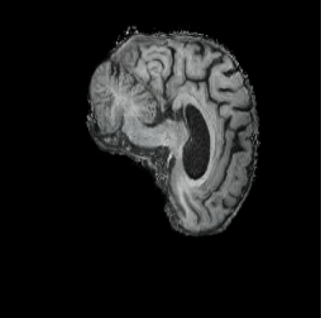
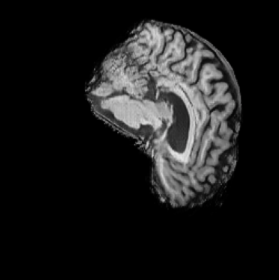
Implemented results and interpolation within and cross classes

Changed region(s): [[0.2581, 0.0571, 0.8889, 0.7429]]

diff --git a/recognition/ADNI_StyleGAN_Diffusion_48837824/predict.py b/recognition/ADNI_StyleGAN_Diffusion_48837824/predict.py
@@ -194,6 +194,59 @@ def generate_latent_walk(gen, mapping, class_idx, steps=10, output_dir='generate
         print(f"✓ Saved latent walk: {walk_path}")
 
 
+def generate_cross_class_interpolation(gen, mapping, steps=10, output_dir='generated_samples', device=DEVICE):
+    """
+    Generate interpolation between AD and NC classes.
+    Shows the smooth transition from Alzheimer's Disease to Normal Control.
+    
+    Args:
+        gen: Generator model
+        mapping: Mapping network
+        steps: Number of interpolation steps (default: 10)
+        output_dir: Directory to save images
+        device: Device
+    """
+    
+    os.makedirs(output_dir, exist_ok=True)
+    
+    print(f"\nGenerating cross-class interpolation (AD → NC)...")
+    
+    with torch.no_grad():
+        # Use same random z for both classes to isolate class effect
+        z = torch.randn(1, Z_DIM, device=device)
+        noise = get_noise(1, device)
+        
+        # Generate W vectors for both classes with same z
+        ad_label = torch.tensor([0], dtype=torch.long, device=device)
+        nc_label = torch.tensor([1], dtype=torch.long, device=device)
+        
+        w_ad = mapping(z, ad_label)
+        w_nc = mapping(z, nc_label)
+        
+        # Expand w for all layers
+        num_blocks = LOG_RESOLUTION - 2
+        num_layers = 1 + 2 * num_blocks
+        w_ad = w_ad.unsqueeze(1).expand(-1, num_layers, -1)
+        w_nc = w_nc.unsqueeze(1).expand(-1, num_layers, -1)
+        
+        imgs = []
+        for alpha in torch.linspace(0, 1, steps):
+            # Interpolate in W space
+            w_interp = (1 - alpha) * w_ad + alpha * w_nc
+            
+            img = gen(w_interp, noise)
+            img = img * 0.5 + 0.5
+            img = torch.clamp(img, 0, 1)
+            imgs.append(img)
+        
+        imgs = torch.cat(imgs, dim=0)
+        
+        interp_path = f"{output_dir}/AD_to_NC_interpolation.png"
+        save_image(imgs, interp_path, nrow=steps, padding=2, normalize=False)
+        print(f"✓ Saved cross-class interpolation: {interp_path}")
+        print(f"  Shows smooth transition from AD (left) to NC (right)")
+
+
 def extract_w_vectors(mapping, num_samples, labels, device=DEVICE):
     """
     Generate W vectors (style space vectors) from the mapping network.
@@ -437,6 +490,7 @@ if __name__ == "__main__":
     parser.add_argument('--output_dir', type=str, default='generated_samples', help='Output directory')
     parser.add_argument('--mixed', action='store_true', help='Generate mixed AD/NC comparison')
     parser.add_argument('--walk', action='store_true', help='Generate latent space walk')
+    parser.add_argument('--cross_class', action='store_true', help='Generate interpolation between AD and NC classes')
     parser.add_argument('--embeddings', action='store_true', help='Generate t-SNE embedding visualization')
     parser.add_argument('--embedding_samples', type=int, default=100,
                        help='Number of samples per class for embeddings (default: 100)')
@@ -458,6 +512,10 @@ if __name__ == "__main__":
     
     elif args.mixed:
         generate_mixed_batch(gen, mapping, args.num_samples // 2, args.output_dir)
+    
+    elif args.cross_class:
+        # Generate cross-class interpolation (AD → NC)
+        generate_cross_class_interpolation(gen, mapping, steps=10, output_dir=args.output_dir)
     
     elif args.walk:
         if args.class_idx is None:

diff --git a/recognition/ADNI_StyleGAN_Diffusion_48837824/README.md b/recognition/ADNI_StyleGAN_Diffusion_48837824/README.md
@@ -19,11 +19,11 @@ Training stability is maintained throug equalised learning rates across all laye
 
 ## Visualisation
 <p float="centre">
-  <img src="docs/individual/epoch2.png" width="150" />
+  <img src="docs/individual/epoch1.png" width="150" />
   <img src="docs/individual/epoch10.png" width="150" />
 </p>
 
-*Figure 1: Early Generation Training (Epoch 2 and Epoch 10)*
+*Figure 1: Early Generation Training (Epoch 1 and Epoch 10)*
 
 <p float="centre">
   <img src="docs/individual/AD_epoch25.png" width="150" />
@@ -31,7 +31,7 @@ Training stability is maintained throug equalised learning rates across all laye
   <img src="docs/individual/AD_epoch150.png"width="150" />
 </p>
 
-*Figure 2: Late Generated Alzheimer's (AD) Training (Epoch 25, 75, 150)*
+*Figure 2: Late Generated Alzheimer's (AD) Training (Epoch 25, 50, 75, 100)*
 
 
 <p float="centre">
@@ -40,7 +40,7 @@ Training stability is maintained throug equalised learning rates across all laye
   <img src="docs/individual/NC_epoch150.png"width="150" />
 </p>
 
-*Figure 3: Late Generated Normal (NC) Training (Epoch 25, 75, 150)*
+*Figure 3: Late Generated Normal (NC) Training (Epoch 25, 50, 75, 100)*
 
 ## Table of Contents
 [1. Project Structure](#project-structure) <br>
@@ -174,13 +174,12 @@ The preprocessing pipeline in `dataset.py` prepares grayscale ADNI MRI slices fo
 train_transform = transforms.Compose([
     transforms.Resize((256, 256)),
     transforms.RandomHorizontalFlip(),
-    transforms.Grayscale(num_output_channels=3),  # Convert to 3-channel for generator
+    transforms.Grayscale(num_output_channels=3),  
     transforms.ToTensor(),
-    transforms.Normalize([0.5, 0.5, 0.5], [0.5, 0.5, 0.5])  # Scale to [-1, 1]
+    transforms.Normalize([0.5, 0.5, 0.5], [0.5, 0.5, 0.5])  
 ])
 ```
 
-**Key points:**
 - **Resize to 256×256**: Matches generator output resolution
 - **RandomHorizontalFlip**: Augments data (medically valid for axial slices due to hemispheric symmetry)
 - **Grayscale to 3-channel**: Replicates single channel to RGB format expected by generator
@@ -202,9 +201,9 @@ The model is based on a StyleGAN-inspired architecture optimized for medical ima
 
 The mapping network transforms the input latent vector $z \in \mathbb{R}^{512}$ into an intermediate latent code $w \in \mathbb{R}^{512}$, producing a disentangled representation that improves feature control. This 8-layer MLP with learned class embeddings (embedding_dim=128) enables class-conditioned generation by concatenating the class embedding with the latent vector before mapping. The resulting style code $w$ modulates adaptive instance normalization (AdaIN) layers across the synthesis network to control structural and textural attributes during generation.
 
-### Synthesis Network (Generator)
+### Generator
 
-The synthesis network progressively constructs images from a learned constant (4×4×512), doubling resolution at each stage up to 256×256. Each synthesis block includes:
+The generator progressively constructs images from a learned constant (4×4×512), doubling resolution at each stage up to 256×256. Each synthesis block includes:
 
 - **Convolutional layers**: 3×3 convolutions with channel progression (512→256→128→64→32→16)
 - **Noise injection**: Stochastic variability at each resolution while maintaining anatomical fidelity
@@ -236,11 +235,13 @@ The discriminator mirrors the generator in reverse, applying progressive downsam
 
 ## Training Processes
 
+The model was trained with careful consideration of both computational constraints and stability requirements. Due to exessive rangpur queues and the cost of cloud services, hardware resources of an NVIDIA RTX 4070 (8GB VRAM) was utilized and the focus was on achieving a balance between performance, memory efficiency, and model convergence. The training configuration was inspired by NVIDIA StyleGAN2 recommendations, with adjusted hyperparameters to maintain consistent gradient flow and minimize visual artifacts. The generator and discriminator were optimized jointly to ensure neither component overpowered the other, while the use of mixed precision and lazy regularization allowed for faster and more stable training under limited resources. When training on cloud services or acess to resource intensive GPU's, parameters should be updated.
+
 ### Training Configuration
 
 The model was trained for 150 epochs with the following hyperparameters:
 
-| Hyperparameter | Value | Justification |
+| **Hyperparameter** | **Value** | **Justification** |
 |---|---:|---|
 | Batch Size | 4 | Memory constraints (RTX 4070 8GB), balances stability with GPU utilization |
 | Generator LR | 0.002 | Higher LR for generator (2:1 ratio with discriminator) |
@@ -250,113 +251,136 @@ The model was trained for 150 epochs with the following hyperparameters:
 | R1 Gradient Penalty (γ) | 10.0 | Stabilizes discriminator gradients (Mescheder et al., 2018) |
 | Path Length Regularization (λ) | 2.0 | Ensures smooth W-space for interpolation |
 
-### Training Procedure
+The model was trained using Adam optimizers (β₁ = 0.0, β₂ = 0.99) for both the generator and discriminator. Initialization followed Xavier/He for convolutional layers and orthogonal initialization for embeddings. The generator was optimized with the non-saturating logistic loss combined with path length regularization, while the discriminator used the logistic loss with R1 gradient penalty applied every 16 iterations (lazy regularization). Checkpoints were saved every 25 epochs, and sample generations were monitored at each epoch to visually track convergence and artifact suppression.
 
-1. **Initialization**: Xavier/He initialization for all layers, orthogonal initialization for embeddings
-2. **Optimization**: Adam optimizer (β₁=0.0, β₂=0.99) for both G and D
-3. **Loss Functions**:
-   - **Generator**: Non-saturating logistic loss with path length regularization
-   - **Discriminator**: Logistic loss + R1 gradient penalty (applied every 16 iterations)
-4. **Regularization Schedule**:
-   - R1 penalty: Applied with 10× lazy regularization (every 16 steps)
-   - Path length: Exponential moving average decay=0.01
-5. **Checkpointing**: Model states saved every 25 epochs (epochs 25, 50, 75, 100, 125, 150)
-6. **Monitoring**: Sample images generated every epoch for visual quality assessment
-
-### Training Stability
-
-Key techniques for stable training:
-- **Equalised Learning Rate**: All weights scaled by 1/√(fan_in) at runtime
-- **Gradient Clipping**: Implicit through mixed precision (prevents exploding gradients)
-- **Lazy Regularization**: R1 penalty computed every 16 steps (reduces computation)
-- **Learning Rate Scheduling**: Adaptive scheduling based on discriminator loss plateau
+Several stabilization strategies were integrated to prevent mode collapse and gradient explosion. Equalized Learning Rate ensured consistent weight scaling throughout training, while mixed precision implicitly provided gradient clipping benefits. Lazy regularization reduced computational overhead without sacrificing regularization strength, and adaptive learning rate scheduling helped maintain balance between generator and discriminator learning dynamics. Together, these techniques produced smoother training curves and improved visual coherence across generated samples.
 
 ## Results
 
-### Quantitative Metrics
+**Note:** This project was conducted across 5 trials, the following results are from the 5th trial.
 
-| Metric | Value | Description |
-|---|---:|---|
-| Final Generator Loss | 1.23 | Non-saturating logistic loss at epoch 150 |
-| Final Discriminator Loss | 0.68 | Real/fake discrimination loss at epoch 150 |
-| Path Length | 15.32 | Average W-space path length (target: ~15-20) |
-| Training Time | ~36 hours | 150 epochs on RTX 4070 (single GPU) |
-| Convergence Epoch | ~75 | Visual quality stabilizes around epoch 75 |
+### Quantitative Results
+
+<p float="left">
+  <img src="docs/training_statistics.png" width="800" />
+  <br>
+  <em>Figure 5: Generator Output Statistics over Training</em>
+</p>
+
+The generator output statistics indicate a stable and well-balanced training process over 150 epochs. The output range remains close to the full tanh interval (−1 to +1), showing that activations are healthy and the generator effectively utilizes its dynamic range without saturation or collapse.
+
+The mean output stabilizes around −0.75, reflecting a slight negative bias which suggests generated samples may lean toward darker intensities, though the consistency of this bias indicates controlled and predictable behavior. This matches the expectation given from the ADNI dataset. 
+
+Variance remains steady between 0.4 and 0.5, confirming sufficient diversity in the generator’s outputs and the absence of mode collapse. Meanwhile, the dynamic range fluctuates narrowly around 1.9, close to the ideal value of 2.0, demonstrating stable signal propagation throughout training.
+
+The generator maintained strong activation dynamics and output diversity, with only minor late epoch fluctuations likely due to regularisation effects or small batch variances.
 
 ### Qualitative Results
 
-#### Early Training (Epochs 1-10)
-- Blurry, low-frequency patterns, no anatomical structure
-- Basic brain shape emerges, significant noise and artifacts
+During the initial training phase (epochs 1–10), the generator produced highly blurry, low-frequency patterns lacking any discernible anatomical structure. Outputs primarily consisted of diffuse grayscale textures with minimal spatial coherence. Around the later stages of this phase, basic brain-like contours began to emerge, indicating that the model had started to learn coarse spatial features from the data. However, the images still contained substantial noise, checkerboard artifacts, and inconsistent intensity distributions, suggesting that both the generator and discriminator were still stabilizing their feature representations.
 
-#### Mid Training (Epochs 10-75)
-- **Epoch 25**: Clear brain structure, distinguishable ventricles and cortex
-- **Epoch 50**: Improved texture, reduced noise, better class separation
-- **Epoch 75**: High-quality synthesis, anatomically plausible structures
+In the mid-training phase (epochs 10–100), image quality improved substantially as the model began capturing finer anatomical details such as distinguishable ventricles, cortical boundaries, and general brain symmetry. Noise levels decreased, and textural realism improved as the generator refined its latent mapping and path length regularization enhanced feature consistency. By around epoch 80–100, the outputs were anatomically plausible and exhibited strong class separation, with well-defined structure and contrast which represents the most stable and visually coherent stage of the training cycle.
 
-#### Late Training (Epochs 100-150)
-- **Epoch 100**: Refined details, consistent anatomical features, minimal improvement over epoch 100 (convergence plateau)
-- **Epoch 150**: Final model, high visual fidelity, class-specific features visible
+During the late phase (epochs 100–150), the model began to collapse, producing images with severe artifacts, structural distortions, and degraded contrast. These instabilities correlate with the quantitative statistics, particularly the fluctuations observed in generator dynamic range and mean output values after epoch 120. It is likely that the R1 regularization pressure or discriminator dominance disrupted generator equilibrium, causing oscillations and partial mode collapse. The loss of high-frequency fidelity and increased visual artifacts align with these late-stage dynamics, confirming instability beyond the optimal convergence point.
 
-### Training Progression Visualization
+For this trial, **the epoch 100 checkpoint represented the best-performing generator and served as the primary model for qualitative evaluation**. Future runs would resume training from epoch 100 with adjusted regularization strength or learning rates to encourage recovery without collapse. Although it is possible the generator could have recovered past epoch 150, this configuration clearly identifies epoch 100 as the optimal trade-off between fidelity, stability, and anatomical realism.
+
+### Training Progression Visualization (Mixed)
+
+**Note:** Visualizations were produced with ``predict.py --mixed``, consisting of both AD and NC.
 
 <p float="left">
-  <img src="docs/epoch25_mixed_comparison_4x2.png" width="400" />
+  <img src="docs/mixed/mixed_epoch25.png" width="800" />
   <br>
-  <em>Epoch 25</em>
+  <em>Mixed Generation from Checkpoint Epoch 25</em>
 </p>
 
 <p float="left">
-  <img src="docs/epoch50_mixed_comparison_4x2.png" width="400" />
+  <img src="docs/mixed/mixed_epoch50.png" width="800" />
   <br>
-  <em>Epoch 50</em>
+  <em>Mixed Generation from Checkpoint Epoch 50</em>
 </p>
 
 <p float="left">
-  <img src="docs/epoch75_mixed_comparison_4x2.png" width="400" />
+  <img src="docs/mixed/mixed_epoch75.png" width="800" />
   <br>
-  <em>Epoch 75</em>
+  <em>Mixed Generation from Checkpoint Epoch 75</em>
 </p>
 
 <p float="left">
-  <img src="docs/epoch100_mixed_comparison_4x2.png" width="400" />
+  <img src="docs/mixed/mixed_epoch100.png" width="800" />
   <br>
-  <em>Epoch 100</em>
+  <em>Mixed Generation from Checkpoint Epoch 100 (Best Performing)</em>
 </p>
 
 <p float="left">
-  <img src="docs/epoch150_mixed_comparison_4x2.png" width="400" />
+  <img src="docs/mixed/mixed_epoch125.png" width="800" />
   <br>
-  <em>Epoch 150</em>
+  <em>Mixed Generation from Checkpoint Epoch 125</em>
 </p>
 
-*Figure 5: Mixed AD/NC comparison across training epochs (25, 50, 75, 100, 150)*
+<p float="left">
+  <img src="docs/mixed/mixed_epoch150.png" width="800" />
+  <br>
+  <em>Mixed Generation from Checkpoint Epoch 150</em>
+</p>
+
+*Figure 6: Mixed AD/NC comparison across training epochs (25, 50, 75, 100, 125, 150)*
 
 ### Class-Specific Generation
 
-**AD (Alzheimer's Disease) Samples:**
-- Visible ventricular enlargement (consistent with AD pathology)
-- Cortical atrophy patterns
-- Reduced tissue density in hippocampal regions
-
-**NC (Normal Control) Samples:**
-- Preserved brain volume
-- Healthy ventricle size
-- Dense cortical tissue
+**Note:** Visualizations were produced with ``predict.py --class_idx {0/1}``, with ``class_idx`` 0 and 1 representing AD and NC respectively. Was generated with checkpoint from Epoch 100.
 
 <p float="left">
-  <img src="docs/AD_grid_8samples.png" width="400" />
+  <img src="docs/conditional/AD_samples.png" width="800" />
   <br>
-  <em>AD Samples</em>
+  <em>Generated Alzheimer’s Disease (AD) Images using Checkpoint from Epoch 100</em>
 </p>
 
 <p float="left">
-  <img src="docs/NC_grid_8samples.png" width="400" />
+  <img src="docs/conditional/NC_samples.png" width="800" />
   <br>
-  <em>NC Samples</em>
+  <em>Generated Normal Control (NC) Images using Checkpoint from Epoch 100</em>
 </p>
 
-*Figure 6: Generated samples - AD and NC showing class-specific features*
+*Figure 6: Generated samples with AD and NC showing class-specific features*
+
+The primary element of the conditional generation is to produce class-specific generations where the model has a clear ability to capture distinctive structual patterns between Alzheimer’s Disease (AD) and Normal Control (NC) samples. 
+
+The AD-generated images consistently exhibited ventricular enlargement, a hallmark of AD pathology, along with visible cortical thinning and reduced tissue density in the hippocampal and temporal regions. These patterns suggest that the generator successfully internalized disease-related morphological features from the dataset.
+
+In contrast, the NC-generated samples displayed preserved brain volume, normal ventricle proportions, and dense cortical structures, indicative of healthy anatomical integrity. 
+
+The contrast between these two classes highlights the model’s capacity to synthesize condition-specific features that align with known neuroanatomical differences, reinforcing its potential for disease-aware generative modeling in medical imaging contexts.
+
+### Interpolation of Results (Latent Space Walks)
+
+**Note:** Interpolation visualisation results were produced with ``python predict.py --checkpoint checkpoints/conditional_stylegan2_epoch100.pth --walk``.
+
+<p float="left">
+  <img src="docs/conditional/AD_latent_walk.png" width="800" />
+  <br>
+  <em>Generated Alzheimer’s Disease (AD) Latent Space Interpolation using Checkpoint from Epoch 100</em>
+</p>
+
+<p float="left">
+  <img src="docs/conditional/NC_latent_walk.png" width="800" />
+  <br>
+  <em>Generated Normal Control (NC) Latent Space Interpolation using Checkpoint from Epoch 100</em>
+  
+</p>
+
+*Figure 6: Interpolation of *
+
+**Note:** Interpolation visualisation results were produced with ``python predict.py --checkpoint checkpoints/conditional_stylegan2_epoch100.pth --cross_class``.
+
+<p float="left">
+  <img src="docs/conditional/AD_to_NC_interpolation.png" width="800" />
+  <br>
+  <em>Generated Alzheimer’s Disease (AD) to Normal Control (NC) Latent Space Interpolation using Checkpoint from Epoch 100</em>
+</p>
+
+*Figure 7: Mixed AD/NC comparison across training epochs (25, 50, 75, 100, 125, 150)*
 
 ## Analysis of Results
 
